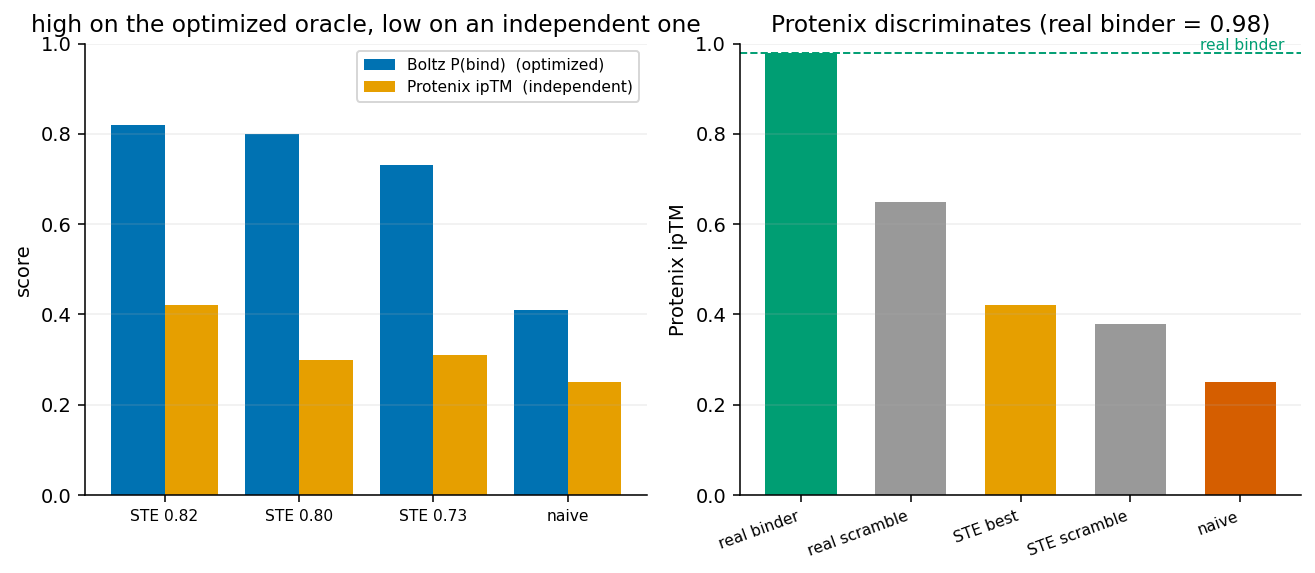
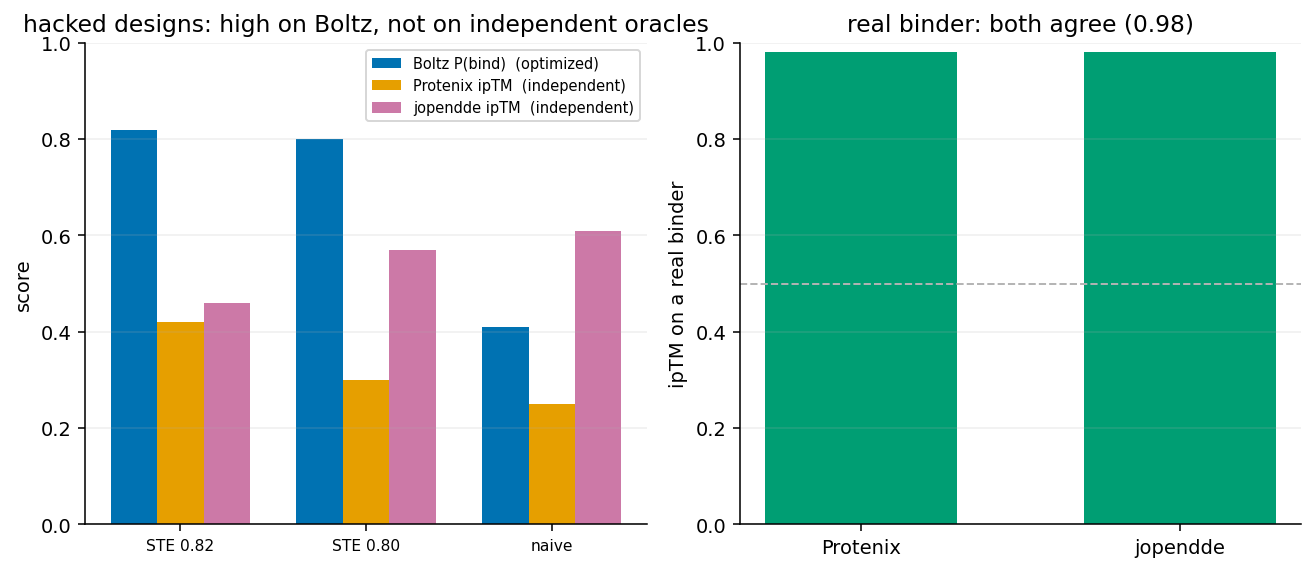
Independence gate: jopendde agrees the designs fail (0.46-0.61) but scores a real binder 0.98
Adds jopendde as a second independent oracle to the cross-check figure: Boltz-hacked designs
score high on Boltz but low on both Protenix and jopendde, while both independent oracles score
a real binder 0.98. They disagree with Boltz on the hacked designs and agree on the real binder,
so they are independent enough to optimize jointly. Status now: pursuing a multi-oracle
(Boltz+jopendde) STE objective, Protenix held out.

diff --git a/scripts/oracle_overfit.py b/scripts/oracle_overfit.py
@@ -1,9 +1,10 @@
-"""The designs overfit the oracle they were optimized against.
+"""The designs overfit the oracle they were optimized against; two independent oracles agree.
 
-STE reaches high Boltz P(bind) (0.82), but an independent oracle (Protenix-v2 ipTM) scores the
-same designs 0.30-0.42 -- no better than a scramble. A real, experimentally-validated binder
-(NISE's apixaban binder), folded under identical Protenix settings, scores 0.98, so the low
-scores are real failures, not a compressed scale. Gradient design games the single oracle.
+STE reaches high Boltz P(bind) (0.82), but two independent oracles (Protenix-v2 and jopendde
+ipTM) both score the same designs low. A real, experimentally-validated binder (NISE's apixaban
+binder) scores 0.98 on both, so the low scores are real failures. The independent oracles
+disagree with Boltz on the hacked designs but agree on the real binder -- so they are
+independent enough to optimize jointly (Route B), with Protenix held out as the transfer judge.
 """
 
 import json
@@ -16,37 +17,33 @@ import matplotlib.pyplot as plt
 import numpy as np
 
 D = json.loads((Path(__file__).resolve().parent / "data" / "xcheck.json").read_text())
-BOLTZ, PROT, POS, GRAY, RED = "#0072B2", "#E69F00", "#009E73", "0.6", "#D55E00"
+BOLTZ, PROT, JOP, POS = "#0072B2", "#E69F00", "#CC79A7", "#009E73"
 
 
 def main():
     fig, (a, b) = plt.subplots(1, 2, figsize=(9.5, 4.2))
 
-    # A: same designs, optimized oracle (high) vs independent oracle (low)
     names = list(D["designs"])
     x = np.arange(len(names))
-    a.bar(x - 0.2, [D["designs"][n]["boltz"] for n in names], 0.4, color=BOLTZ,
+    a.bar(x - 0.25, [D["designs"][n]["boltz"] for n in names], 0.25, color=BOLTZ,
           label="Boltz P(bind)  (optimized)")
-    a.bar(x + 0.2, [D["designs"][n]["protenix"] for n in names], 0.4, color=PROT,
+    a.bar(x, [D["designs"][n]["protenix"] for n in names], 0.25, color=PROT,
           label="Protenix ipTM  (independent)")
+    a.bar(x + 0.25, [D["designs"][n]["jopendde"] for n in names], 0.25, color=JOP,
+          label="jopendde ipTM  (independent)")
     a.set_xticks(x)
     a.set_xticklabels(names, fontsize=8)
     a.set_ylabel("score")
-    a.set_title("high on the optimized oracle, low on an independent one")
+    a.set_title("hacked designs: high on Boltz, not on independent oracles")
     a.set_ylim(0, 1)
-    a.legend(fontsize=8, loc="upper right")
+    a.legend(fontsize=7.5, loc="upper right")
 
-    # B: Protenix is trustworthy (real binder 0.98)
-    cal = D["calibration"]
-    labels = list(cal)
-    colors = [POS, GRAY, PROT, GRAY, RED]
-    b.bar(labels, [cal[k] for k in labels], color=colors, width=0.65)
-    b.axhline(cal["real binder"], ls="--", lw=1, color=POS)
-    b.text(4.4, cal["real binder"], "real binder", fontsize=8, color=POS, ha="right", va="bottom")
-    b.set_ylabel("Protenix ipTM")
-    b.set_title("Protenix discriminates (real binder = 0.98)")
+    rb = D["real_binder"]
+    b.bar(["Protenix", "jopendde"], [rb["protenix"], rb["jopendde"]], color=POS, width=0.6)
+    b.axhline(0.5, ls="--", lw=1, color="0.7")
+    b.set_ylabel("ipTM on a real binder")
+    b.set_title("real binder: both agree (0.98)")
     b.set_ylim(0, 1)
-    b.set_xticklabels(labels, rotation=20, ha="right", fontsize=8)
 
     for ax in (a, b):
         for s in ("top", "right"):

diff --git a/README.md b/README.md
@@ -9,11 +9,12 @@ P(bind). A gradient counterpart to NISE (Polizzi lab,
 https://www.nature.com/articles/s41586-026-10670-w), which does the same job with a
 gradient-free selection loop. Not a fork.
 
-**Status: a finished methods study, not a binder pipeline.** A straight-through estimator fixes
-gradient design's soft-to-discrete gap, but the designs then overfit whichever oracle they were
-optimized against (they do not transfer to an independent model), and a second *head* of the
-same model does not help. Escaping that needs a genuinely independent oracle in the loop and,
-ultimately, wet-lab validation. The reusable pieces are the STE optimizer and
+**Status: active.** A straight-through estimator fixes gradient design's soft-to-discrete gap,
+but the designs overfit whichever oracle they were optimized against, and a second *head* of the
+same model does not help. Two *independent* oracles (Protenix-v2 and jopendde) both score the
+designs far below a real binder while agreeing a real binder is 0.98 -- independent enough to
+optimize jointly. The current direction is a multi-oracle (Boltz+jopendde) objective, held out
+on Protenix; wet-lab validation is the ultimate bar. Reusable now: the STE optimizer and
 [jligandmpnn](https://github.com/ssiddhantsharma/jligandmpnn).
 
 ## The problem: naive gradient reward-hacks
@@ -49,21 +50,21 @@ Caveats: P(bind) is the Boltz-2 oracle, not an experiment; harder ligands are mo
 (sulfonamide 0.44-0.66 vs benzoic acid 0.62-0.73); `nss>=25` is ~25x slower than `nss=2`.
 Runnable: `scripts/optimize_ste.py`.
 
-## But the designs overfit the oracle
+## The designs overfit the oracle; two independent oracles agree
 STE closes the soft-to-discrete gap *within Boltz* -- it does not make real binders. Refolding
-the designs with an independent model (Protenix-v2) tells the truth:
+the designs with two independent models (Protenix-v2 and jopendde) tells the truth:
 
 ![oracle overfit](figures/oracle_overfit.png)
 
-*The STE designs score high on the optimized oracle (Boltz P(bind) 0.73-0.82) but low on
-Protenix ipTM (0.30-0.42), no better than a scramble of their own residues. A real,
-experimentally-validated binder (NISE's apixaban binder) folded under identical settings scores
-0.98, so Protenix discriminates and the low scores are real failures.* `scripts/oracle_overfit.py`.
+*The designs score high on the optimized oracle (Boltz) but far below a real binder on both
+independent oracles; a real experimentally-validated binder (NISE's apixaban binder) scores 0.98
+on both, so they discriminate and the low scores are real failures.* `scripts/oracle_overfit.py`.
 
-Optimizing a single differentiable oracle games that oracle. Adding a second *head* of the same
-model (`optimize_pbind(confidence_weight>0)` co-minimizes the Boltz interface PAE) does **not**
-help -- the design just games both heads (Protenix ipTM still 0.17-0.38). Escaping the overfit
-needs a genuinely *independent* oracle in the loop; cross-model agreement is the real bar.
+Optimizing a single oracle games it. A second *head* of the same model
+(`optimize_pbind(confidence_weight>0)`) does **not** help -- the design games both heads. But
+Boltz and jopendde *disagree* on the hacked designs while *agreeing* on a real binder, so they
+are independent enough to optimize jointly. **Current direction:** a multi-oracle
+(Boltz+jopendde) STE objective, with Protenix held out as the transfer judge.
 
 ## Optional: ligand-aware prior
 `src/nisegrad/ligand_mpnn_reg.py` adds a LigandMPNN
